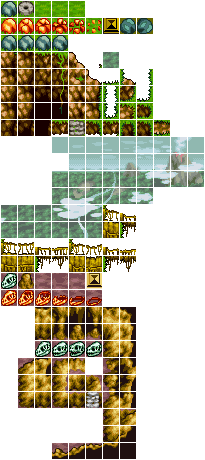
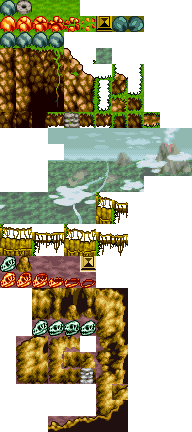
Add destructible tile layer and update tile animations in level1

Changed region(s): [[0.0, 0.0, 1.0, 1.0]]

diff --git a/src/systems/renderSystem.js b/src/systems/renderSystem.js
@@ -3,6 +3,7 @@ import { TILE_WALL, TILE_DESTRUCTIBLE, TILE_EXPLOSION, TILE_PASS } from "../conf
 export class RenderSystem {
 
     draw(world, assets, p) {
+        world.tileAnimTimer += p.deltaTime
         this.drawTiles(world, assets, p)
         this.drawEntities(world, assets, p)
     }
@@ -11,7 +12,6 @@ export class RenderSystem {
 
 
         const { grid, tileSize, levelVisualConfig } = world
-
         const sheet = levelVisualConfig ? assets.get(levelVisualConfig.tilesetKey) : null
 
         p.noStroke()
@@ -20,7 +20,7 @@ export class RenderSystem {
             for (let x = 0; x < grid.cols; x++) {
 
                 const tile = grid.tiles[y][x]
-                const layers = grid.getVisual(x, y)   // null en niveles legacy
+                const { layers, destructibleGid } = grid.getVisual(x, y) ?? { layers: [], destructibleGid: 0 }  // null en niveles legacy
                 const px = x * tileSize
                 const py = y * tileSize
 
@@ -29,20 +29,24 @@ export class RenderSystem {
                     // ── Render con tileset ──────────────────────────────────────────
 
                     // 1. Capas de fondo en orden (Background → Bridge)
+
                     for (const gid of layers) {
                         if (gid === 0) continue
                         this._drawGid(p, sheet, gid, levelVisualConfig, px, py)
                     }
 
-                    // 2. Si el tile está en estado EXPLOSION, superpone la animación de muerte.
-                    //    La explosión ya tiene su timer; nosotros solo necesitamos saber
-                    //    en qué frame estamos. Lo calculamos a partir del timer de la explosión
-                    //    que corresponde a esta celda.
-                    if (tile === TILE_EXPLOSION) {
-                        const frame = this._deathFrame(world, x, y)
-                        const gid = levelVisualConfig.deathFirstGid + frame
-                        this._drawGid(p, sheet, gid, levelVisualConfig, px, py)
+                    if (tile === TILE_DESTRUCTIBLE && destructibleGid > 0) {
+                        // El GID de la capa Destructible es el último en el array layers
+                        const anim = levelVisualConfig.tileAnims[destructibleGid]
+
+                        if (anim) {
+                            const frame = Math.floor(world.tileAnimTimer / anim.duration) % anim.frames.length
+                            this._drawGid(p, sheet, anim.frames[frame], levelVisualConfig, px, py)
+                        } else {
+                            this._drawGid(p, sheet, destructibleGid, levelVisualConfig, px, py)
+                        }
                     }
+
 
                 } else {
 
@@ -68,28 +72,6 @@ export class RenderSystem {
 
     }
 
-    // Calcula el frame de la animación de muerte para la celda (x, y).
-    // Busca la explosión de tipo "destruction" que ocupa ese tile y usa su timer.
-    _deathFrame(world, x, y) {
-
-        const cfg = world.levelVisualConfig
-        if (!cfg || cfg.deathFrames <= 1) return 0
-
-        // Busca la explosión de destrucción ligada a esta celda
-        const exp = world.explosions.find(
-            e => e.type === "destruction" && e.tileX === x && e.tileY === y
-        )
-
-        if (!exp) return 0
-
-        // Distribuye el timer restante en frames (timer va de maxTimer → 0)
-        const ratio = 1 - (exp.timer / exp.maxTimer)
-        return Math.min(
-            Math.floor(ratio * cfg.deathFrames),
-            cfg.deathFrames - 1
-        )
-
-    }
 
     // Dibuja un GID de Tiled (1-based) en la posición (px, py) del canvas.
     _drawGid(p, sheet, rawGid, cfg, px, py) {

diff --git a/src/world/levelLoader.js b/src/world/levelLoader.js
@@ -64,6 +64,8 @@ export class LevelLoader {
     const gridLayer = tmj.layers.find(l => l.name === "GridMap" && l.type === "tilelayer")
     if (!gridLayer) throw new Error("LevelLoader.loadTMJ: falta la capa 'GridMap'")
 
+    const destructibleLayer = tmj.layers.find(l => l.name === "Destructible" && l.type === "tilelayer")
+
     for (let i = 0; i < gridLayer.data.length; i++) {
       const x = i % cols
       const y = Math.floor(i / cols)
@@ -83,7 +85,11 @@ export class LevelLoader {
         return data ? data[i] : 0
       })
 
-      grid.setVisual(x, y, layers)
+      const destructibleGid = destructibleLayer
+        ? (destructibleLayer.data[i] & 0x1FFFFFFF)
+        : 0
+
+      grid.setVisual(x, y, { layers, destructibleGid })
     }
 
     world.grid = grid
@@ -125,14 +131,28 @@ export class LevelLoader {
   }
 
   static _parseVisualConfig(tsj, tilesetKey) {
+
+    const firstGid = 1
+
+    // Mapa de gid → { frames: [gid,...], duration: ms }
+    // para cualquier tile que tenga animación definida en el TSJ
+    const tileAnims = {}
+    for (const tile of (tsj.tiles ?? [])) {
+      if (!tile.animation?.length) continue
+      const gid = firstGid + tile.id
+      tileAnims[gid] = {
+        frames: tile.animation.map(f => firstGid + f.tileid),
+        duration: tile.animation[0].duration
+      }
+    }
+
     return {
       tilesetKey,  // o la clave que uses
       tilesetCols: tsj.columns,              // 12
       tileSize: tsj.tilewidth,            // 16
       margin: tsj.margin ?? 0,
       spacing: tsj.spacing ?? 0,
-      deathFrames: 1,                        // configurable después
-      deathFirstGid: 0,
+      tileAnims
     }
   }
 

diff --git a/src/systems/bombSystem.js b/src/systems/bombSystem.js
@@ -83,7 +83,8 @@ export class BombSystem {
         // Es el último tile si alcanzó el rango o hay un destructible
         const isLast = (i === range)
         const isPowerUp = world.powerUps?.[`${tx},${ty}`]?.alive
-        const kind = this.explosionKind(dir, isLast, isPowerUp)
+        const isDestructible = tile === TILE_DESTRUCTIBLE
+        const kind = this.explosionKind(dir, isLast, isPowerUp, isDestructible, world.currentLevelIndex+1)
 
         // Si ya hay explosión en este tile, actualiza su kind a segmento
         const existing = this.getExplosion(world, tx, ty)
@@ -95,7 +96,7 @@ export class BombSystem {
           this.spawnExplosion(world, tx, ty, kind)
         }
 
-        if (tile === TILE_DESTRUCTIBLE) {
+        if (isDestructible) {
 
           grid.set(tx, ty, TILE_EXPLOSION)
           break
@@ -115,8 +116,9 @@ export class BombSystem {
 
   }
 
-  explosionKind(dir, isLast, isPowerUp) {
+  explosionKind(dir, isLast, isPowerUp, isDestructible, level) {
     if (isPowerUp) return 'powerUp'
+    if (isDestructible) return `tilelevel${level}`
     if (dir.x !== 0) return isLast ? (dir.x > 0 ? 'tipRight' : 'tipLeft') : 'horizontal'
     if (dir.y !== 0) return isLast ? (dir.y > 0 ? 'tipDown' : 'tipUp') : 'vertical'
     return 'center'

diff --git a/src/scenes/gameplayScene.js b/src/scenes/gameplayScene.js
@@ -44,9 +44,7 @@ export class GameplayScene {
 
         for (const level of LEVELS.filter(l => l.type === "tmj")) {
             await this.assets.loadTMJ(level.data, `assets/tilemaps/${level.data}.tmj`)
-
-            const tmj = this.assets.getTMJ(level.data)
-            const tsRef = tmj.tilesets[0]               // { firstgid, source }
+             // { firstgid, source }
             const tsKey = level.data                     // ej. "level1"
             const tsPath = `assets/tilemaps/${tsKey}.tsj` // misma carpeta
 

diff --git a/src/core/world.js b/src/core/world.js
@@ -27,6 +27,8 @@ export class World {
     this.gameOver = false
     this.gameWon = false
     this.respawnTimer = 0
+
+    this.tileAnimTimer = 0
   }
 
   reset(assets) {
@@ -46,6 +48,8 @@ export class World {
 
     this.enemySpawns = []
     this.powerUps = {}
+
+    this.tileAnimTimer = 0
 
     const levels = LEVELS[this.currentLevelIndex]
     if (levels.type === "tmj") {

diff --git a/src/core/spriteConfig.js b/src/core/spriteConfig.js
@@ -46,6 +46,7 @@ export const EXPLOSION_SPRITE = {
         tipLeft:   { row: 6, frames: 8, fps: 12 },
         tipRight:  { row: 7, frames: 8, fps: 12 },
         powerUp:   { row: 8, frames: 5, fps: 12, loop: false },
+        tilelevel1: { row: 9, frames: 6, fps: 12, loop: false },
     }
 }
 
